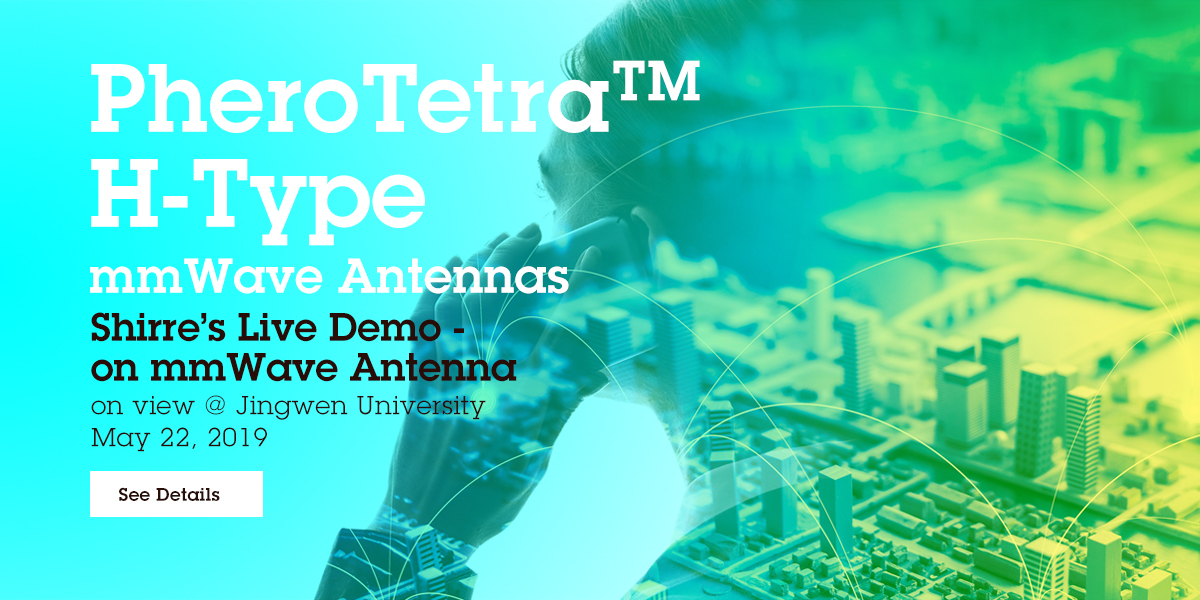
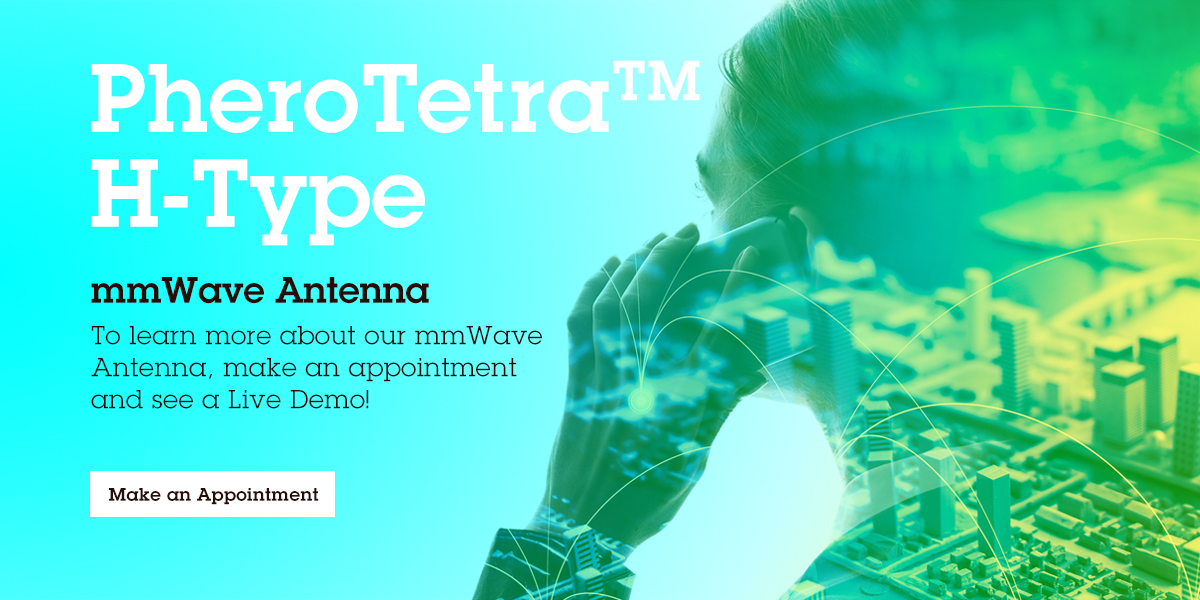
20190706

diff --git a/_includes/sections/home.html b/_includes/sections/home.html
@@ -38,7 +38,7 @@
                     </div>
                 </div>
                 <!-- Set background for slide in css -->
-                <a href="#news">
+                <a href="mailto:peiti.chia@shirre.com?subject=PheroTetraTM - Live Demo">
                     <div class="header-back one"></div>
                 </a>
             </div>

diff --git a/_products/005-pherotetra.md b/_products/005-pherotetra.md
@@ -3,5 +3,5 @@ title:  "PheroTetra<sup>TM</sup>"
 picture: /static/assets/img/products/shirre_pt_layers.jpg
 ---
 
-PheroTetra<sup>TM</sup>_–with exceptional Dielectric Performance and ultra-low loss up to mmWave frequencies–is a fluorocarbon-based dielectric material technology developed by Shirre Lab Corp. The multi-layer structure is designed and manufactured to ensure the best signal integrity for RF antenna applications.
+PheroTetra<sup>TM</sup>–with exceptional Dielectric Performance and ultra-low loss up to mmWave frequencies–is a fluorocarbon-based dielectric material technology developed by Shirre Lab Corp. The multi-layer structure is designed and manufactured to ensure the best signal integrity for RF antenna applications.
 
